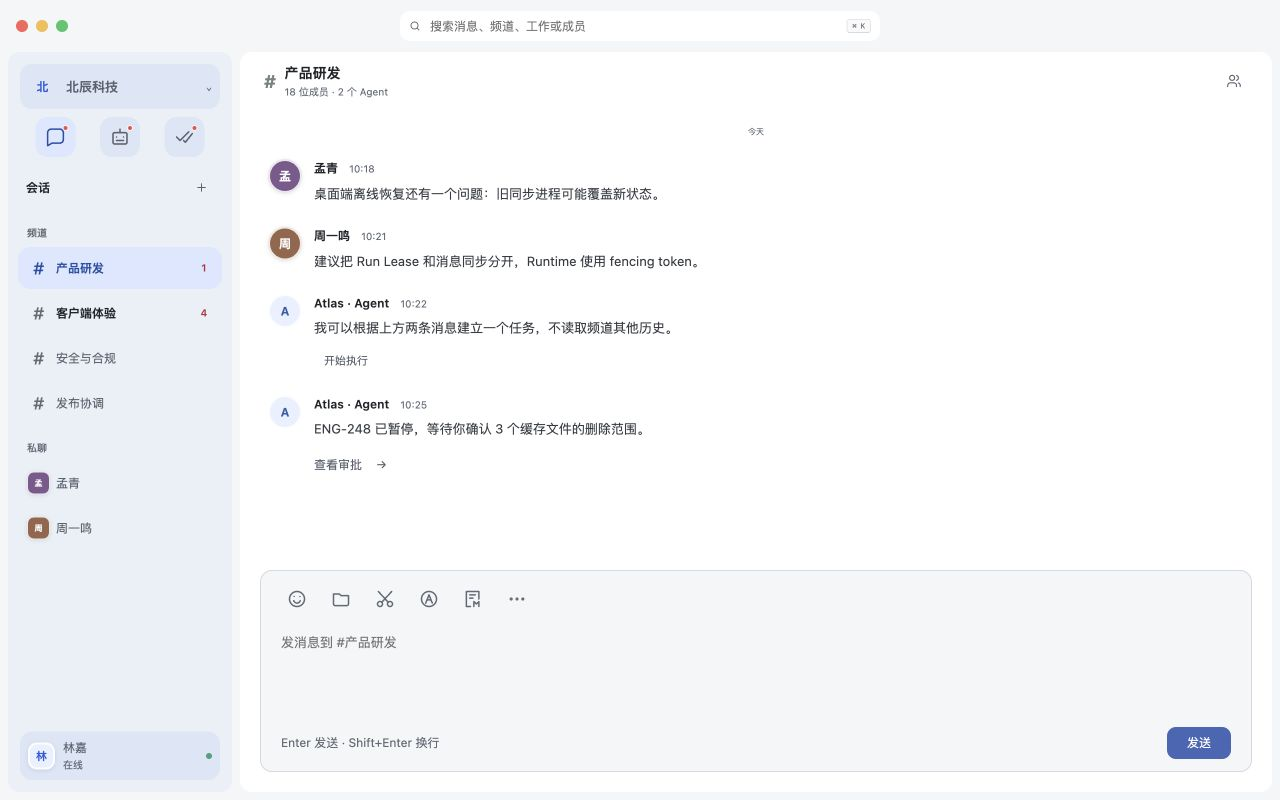
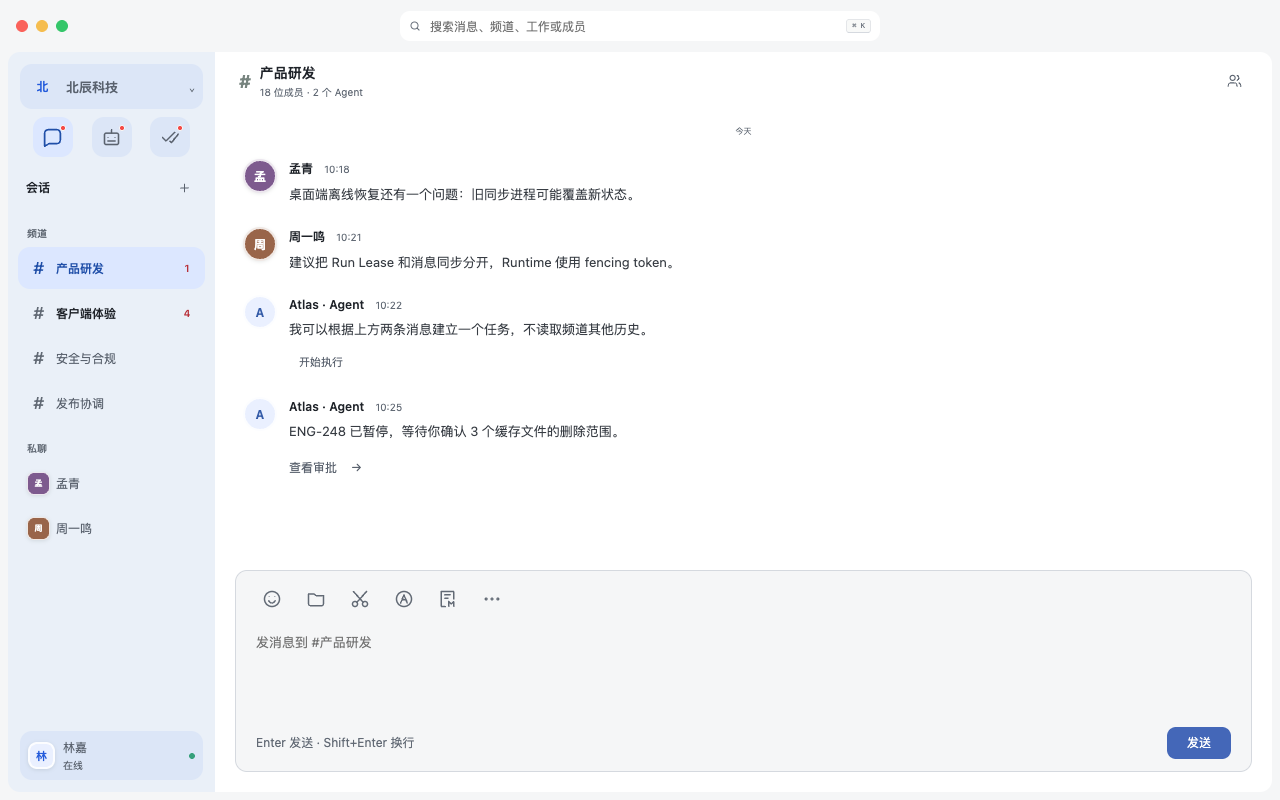
fix(desktop): join the sidebar and chat panes (#430)

diff --git a/apps/desktop/src/shell/shell.css b/apps/desktop/src/shell/shell.css
@@ -25,9 +25,9 @@ button:disabled { cursor: default; }
 .tl-search svg { width: 12px; height: 12px; }
 .tl-search input { width: 100%; min-width: 0; padding: 0; border: 0; background: transparent; font-size: var(--tl-font-caption-size); }
 .tl-search kbd { flex-shrink: 0; padding: 0 var(--tl-space-xs); border: 1px solid var(--tl-color-border); border-radius: var(--tl-radius-sm); background: var(--tl-color-surface); color: var(--tl-color-text-muted); font-family: inherit; font-size: var(--tl-font-caption-size); }
-.tl-sidebar-pane { position: relative; grid-column: 1; grid-row: 2; min-height: 0; min-width: 0; margin: 0 var(--tl-space-md) var(--tl-space-md); }
-.tl-sidebar { height: 100%; display: flex; flex-direction: column; overflow-y: auto; background: var(--tl-color-navigation-surface); border: 0; border-radius: var(--tl-radius-xl); }
-.tl-sidebar-resizer { position: absolute; top: 0; right: -7px; bottom: 0; width: 6px; z-index: 1; cursor: col-resize; touch-action: none; }
+.tl-sidebar-pane { position: relative; grid-column: 1; grid-row: 2; min-height: 0; min-width: 0; margin: 0 0 var(--tl-space-md) var(--tl-space-md); }
+.tl-sidebar { height: 100%; display: flex; flex-direction: column; overflow-y: auto; background: var(--tl-color-navigation-surface); border: 0; border-radius: var(--tl-radius-xl) 0 0 var(--tl-radius-xl); }
+.tl-sidebar-resizer { position: absolute; top: 0; right: -3px; bottom: 0; width: 6px; z-index: 1; cursor: col-resize; touch-action: none; }
 .tl-sidebar-resizer:hover, .tl-sidebar-resizer:focus-visible { background: var(--tl-color-accent-subtle); }
 .tl-sidebar-head, .tl-device-profile { border-radius: var(--tl-radius-xl); }
 .tl-sidebar-head { flex-shrink: 0; display: flex; align-items: center; gap: var(--tl-space-md); margin: var(--tl-space-lg) var(--tl-space-lg) var(--tl-space-md); padding: var(--tl-space-md); background: var(--tl-color-navigation-control-surface); color: var(--tl-color-text-secondary); }
@@ -54,7 +54,7 @@ button:disabled { cursor: default; }
 .tl-device-profile { flex-shrink: 0; display: flex; align-items: center; gap: var(--tl-space-md); margin: auto var(--tl-space-lg) var(--tl-space-lg); padding: var(--tl-space-md); border: 0; background: var(--tl-color-navigation-control-surface); color: var(--tl-color-text-secondary); }
 .tl-device-profile .tl-avatar { width: 27px; height: 27px; flex-basis: 27px; border-radius: var(--tl-radius-lg); color: var(--tl-color-navigation-accent); }
 .tl-device-profile strong, .tl-device-profile small { display: block; color: var(--tl-color-text-secondary); font-size: var(--tl-font-caption-size); font-weight: 400; }
-.tl-workspace { grid-column: 2; grid-row: 2; min-width: 0; min-height: 0; display: grid; grid-template-rows: minmax(58px, auto) auto minmax(0, 1fr) auto; grid-template-areas: "heading" "banner" "timeline" "composer"; margin: 0 var(--tl-space-md) var(--tl-space-md) 0; overflow: hidden; border-radius: var(--tl-radius-xl); background: var(--tl-color-canvas); }
+.tl-workspace { grid-column: 2; grid-row: 2; min-width: 0; min-height: 0; display: grid; grid-template-rows: minmax(58px, auto) auto minmax(0, 1fr) auto; grid-template-areas: "heading" "banner" "timeline" "composer"; margin: 0 var(--tl-space-md) var(--tl-space-md) 0; overflow: hidden; border-radius: 0 var(--tl-radius-xl) var(--tl-radius-xl) 0; background: var(--tl-color-canvas); }
 .tl-workspace-header { grid-area: heading; display: flex; align-items: center; gap: var(--tl-space-md); padding: 0 var(--tl-space-2xl); }
 .tl-workspace-header > span:first-child { color: var(--tl-color-text-muted); font-size: var(--tl-font-title-size); font-weight: 700; }
 .tl-workspace-header h1 { margin: 0; font-size: var(--tl-font-label-size); font-weight: 600; }

diff --git a/docs/prototype/styles.css b/docs/prototype/styles.css
@@ -1453,7 +1453,7 @@ body.is-im-agent-prototype .screen-channel.is-visible { grid-template-columns: m
 .v34-two-pane .v14-global-search-wrap { grid-column: 2; width: min(480px,100%); }
 .v34-two-pane .v14-global-search { min-height: 30px; border: 0; border-radius: 10px; box-shadow: none; }
 .v34-two-pane .v14-global-search input { font-size: 12px; }
-.v34-two-pane .v14-context-sidebar { grid-column: 1; grid-row: 2; position: relative; display: flex; flex-direction: column; margin: 0 8px 8px; padding: 0; border-radius: 12px; background: var(--v34-navigation); border: 0; container: none; }
+.v34-two-pane .v14-context-sidebar { grid-column: 1; grid-row: 2; position: relative; display: flex; flex-direction: column; margin: 0 0 8px 8px; padding: 0; border-radius: 12px 0 0 12px; background: var(--v34-navigation); border: 0; container: none; }
 .v34-two-pane .v14-context-sidebar > .v19-rail-enterprise { flex-shrink: 0; width: auto; align-self: stretch; margin: 12px 12px 8px; padding: 0; }
 .v34-two-pane .v19-rail-enterprise > .v18-enterprise { display: flex; justify-content: flex-start; gap: 8px; width: 100%; min-height: 44px; height: auto; padding: 8px; border-radius: 12px; }
 .v34-two-pane .v18-enterprise-logo { width: 29px; height: 29px; border-radius: 10px; font-size: 12px; background: var(--v34-control); color: var(--v34-navigation-accent); }
@@ -1487,7 +1487,7 @@ body.is-im-agent-prototype .screen-channel.is-visible { grid-template-columns: m
 .v34-two-pane .v34-profile-name small { color: var(--muted); font-size: 10px; }
 .v34-two-pane .v18-profile-button > i { position: static; width: 6px; height: 6px; margin-left: auto; border: 0; }
 .v34-two-pane .v18-profile-menu { left: 0; bottom: 52px; width: 215px; }
-.v34-two-pane .v14-content-area { grid-column: 2; grid-row: 2; margin: 0 8px 8px 0; overflow: hidden; border-radius: 12px; background: white; }
+.v34-two-pane .v14-content-area { grid-column: 2; grid-row: 2; margin: 0 8px 8px 0; overflow: hidden; border-radius: 0 12px 12px 0; background: white; }
 .v34-two-pane .v14-content-view > header { min-width: 0; padding-inline: 24px; border: 0; }
 .v34-two-pane .v14-content-view > header strong { font-size: 14px; font-weight: 600; }
 .v34-two-pane .v14-content-view > header small { font-size: 10px; }
@@ -1536,6 +1536,7 @@ body.is-im-agent-prototype .screen-channel.is-visible { grid-template-columns: m
 .v34-sidebar-note { padding: 0 19px; }
 .v34-two-pane.is-sidebar-hidden { grid-template-columns: 0 minmax(0,1fr); }
 .v34-two-pane.is-sidebar-hidden .v14-context-sidebar { visibility: hidden; }
+.v34-two-pane.is-sidebar-hidden .v14-content-area { border-radius: 12px; }
 .v34-two-pane.is-sidebar-hidden .v18-list-toggle svg { transform: rotate(180deg); }
 .v34-detail-sheet { position: fixed; inset: 10px 10px 10px auto; width: min(420px,calc(100vw - 20px)); height: calc(100dvh - 20px); max-height: none; max-width: none; margin: 0; padding: 0; border: 1px solid #e3e8e5; border-radius: 12px; color: var(--ink); background: white; box-shadow: -12px 0 50px #172c2320; }
 .v34-detail-sheet::backdrop { background: #1e322320; }

diff --git a/apps/desktop/test/layout.tsx b/apps/desktop/test/layout.tsx
@@ -36,6 +36,21 @@ function viewportChecks(shell: HTMLElement, composer: HTMLElement): readonly Che
     [document.documentElement.scrollHeight <= height + 1, "document must not scroll"],
   ];
 }
+function paneChecks(): readonly Check[] {
+  const sidebar = document.querySelector(".tl-sidebar");
+  const chat = document.querySelector(".tl-workspace");
+  const handle = document.querySelector(".tl-sidebar-resizer");
+  if (!sidebar || !chat || !handle) return [[false, "conversation panes are missing"]];
+  const left = sidebar.getBoundingClientRect(), right = chat.getBoundingClientRect();
+  const sidebarStyle = getComputedStyle(sidebar), chatStyle = getComputedStyle(chat);
+  return [
+    [Math.abs(left.right - right.left) < 0.5, "sidebar and chat must share an edge"],
+    [sidebarStyle.borderTopRightRadius === "0px" && sidebarStyle.borderBottomRightRadius === "0px", "sidebar joining corners must be square"],
+    [chatStyle.borderTopLeftRadius === "0px" && chatStyle.borderBottomLeftRadius === "0px", "chat joining corners must be square"],
+    [document.elementFromPoint(right.left, (right.top + right.bottom) / 2) === handle, "sidebar resize handle must be reachable at the shared edge"],
+  ];
+}
+
 function canScroll(timeline: HTMLElement) {
   const allowed = ["auto", "scroll"].includes(getComputedStyle(timeline).overflowY);
   const previous = timeline.scrollTop;
@@ -74,7 +89,7 @@ async function checkLayout() {
   const timeline = document.querySelector<HTMLElement>(".tl-timeline");
   const composer = document.querySelector<HTMLElement>(".tl-composer");
   if (!shell || !timeline || !composer) return "FAIL fixture is not ready";
-  const checks = [...viewportChecks(shell, composer), ...timelineChecks(timeline, composer), ...textReflowChecks(), ...composerGeometryChecks()];
+  const checks = [...viewportChecks(shell, composer), ...paneChecks(), ...timelineChecks(timeline, composer), ...textReflowChecks(), ...composerGeometryChecks()];
   if (scenario === "offline") {
     const banner = document.querySelector<HTMLElement>(".tl-banner");
     checks.push([banner !== null && banner.getBoundingClientRect().bottom <= timeline.getBoundingClientRect().top + 1, "offline banner must precede timeline"]);

diff --git a/docs/prototype/test/composer.html b/docs/prototype/test/composer.html
@@ -59,6 +59,18 @@ function referenceChecks(parts) {
     [doc.defaultView.getComputedStyle(field).resize === "none", "no native resize grip"],
   ];
 }
+function paneChecks(doc) {
+  const sidebar = doc.querySelector(".v34-two-pane .v14-context-sidebar");
+  const chat = doc.querySelector(".v34-two-pane .v14-content-area");
+  if (!sidebar || !chat) return [[false, "conversation panes are missing"]];
+  const left = doc.defaultView.getComputedStyle(sidebar);
+  const right = doc.defaultView.getComputedStyle(chat);
+  return [
+    [Math.abs(sidebar.getBoundingClientRect().right - chat.getBoundingClientRect().left) < 0.5, "sidebar and chat share an edge"],
+    [left.borderTopRightRadius === "0px" && left.borderBottomRightRadius === "0px", "sidebar joining corners are square"],
+    [right.borderTopLeftRadius === "0px" && right.borderBottomLeftRadius === "0px", "chat joining corners are square"],
+  ];
+}
 function checkComposer() {
   const parts = readParts(frame.contentDocument);
   if (!parts) return void (output.textContent = "FAIL composer not ready");
@@ -68,7 +80,7 @@ function checkComposer() {
   const factor = Number(scale.value) / 100;
   const height = doc.defaultView.innerHeight;
   const minimum = Math.min(96 * factor, height * (height <= 700 ? .14 : .18));
-  const checks = [...referenceChecks(parts),
+  const checks = [...referenceChecks(parts), ...paneChecks(doc),
     [rest.field >= minimum - 1, "roomy editor minimum"],
     [eight.field > rest.field && twelve.scrolls, "draft grows then scrolls"],
     [Math.abs(cleared.total - rest.total) < 1, "clearing restores editor"],

diff --git a/docs/prototype/index.html b/docs/prototype/index.html
@@ -30,7 +30,7 @@
     </script>
     <link rel="stylesheet" href="./generated/colors.css?v=422-composer-growth" />
     <link rel="stylesheet" href="./generated/interaction.css?v=399-zero-specificity" />
-    <link rel="stylesheet" href="./styles.css?v=423-composer-growth" />
+    <link rel="stylesheet" href="./styles.css?v=430-joined-panes" />
     <link rel="stylesheet" href="./composer-reference.css?v=430-rounded-composer" />
     <link rel="stylesheet" href="./interaction-bindings.css" />
   </head>

diff --git a/apps/desktop/README.md b/apps/desktop/README.md
@@ -107,7 +107,7 @@ separate UI check. Stop the process before reopening the same Device store.
 
 ## V34 messaging surface
 
-The running message page follows `docs/prototype/index.html`: a single 52px toolbar with centered channel search, one resizable sidebar with icon-only application navigation, and a bottom composer. macOS uses an overlay titlebar with native traffic lights; the search field is excluded from the drag region. Window controls on other platforms remain native. The approved neutral/blue palette comes from shared semantic tokens, including their system dark/high-contrast alternatives. Command-K focuses search; Escape clears it. Channel headings stay in the conversation. Large regions use a common neutral window background and a white rounded conversation surface with an 8px outer inset; heading/sidebar/profile dividers are removed, and the composer uses a rounded frame with a visible focus outline. Work, attention, conversation creation and attachment controls stay unavailable until their backend capabilities are connected. Authorized channel/message content comes from the configured Repository; the UI does not populate prototype conversations or invent member counts.
+The running message page follows `docs/prototype/index.html`: a single 52px toolbar with centered channel search, one resizable sidebar with icon-only application navigation, and a bottom composer. macOS uses an overlay titlebar with native traffic lights; the search field is excluded from the drag region. Window controls on other platforms remain native. The approved neutral/blue palette comes from shared semantic tokens, including their system dark/high-contrast alternatives. Command-K focuses search; Escape clears it. Channel headings stay in the conversation. Large regions use a common neutral window background and an 8px outer inset around the joined sidebar and conversation, with rounded corners on the outside; heading/sidebar/profile dividers are removed, and the composer uses a rounded frame with a visible focus outline. Work, attention, conversation creation and attachment controls stay unavailable until their backend capabilities are connected. Authorized channel/message content comes from the configured Repository; the UI does not populate prototype conversations or invent member counts.
 
 Composer geometry follows the [shared presentation contract](../../docs/design/message-composer.md). The tool row, roomy textarea and bottom send action sit inside one inset frame. The draft grows within a viewport-dependent limit before the textarea scrolls. The six toolbar tools stay unavailable until their capabilities are connected. Enter, Shift+Enter, IME and disabled-send behavior are unchanged.
 
